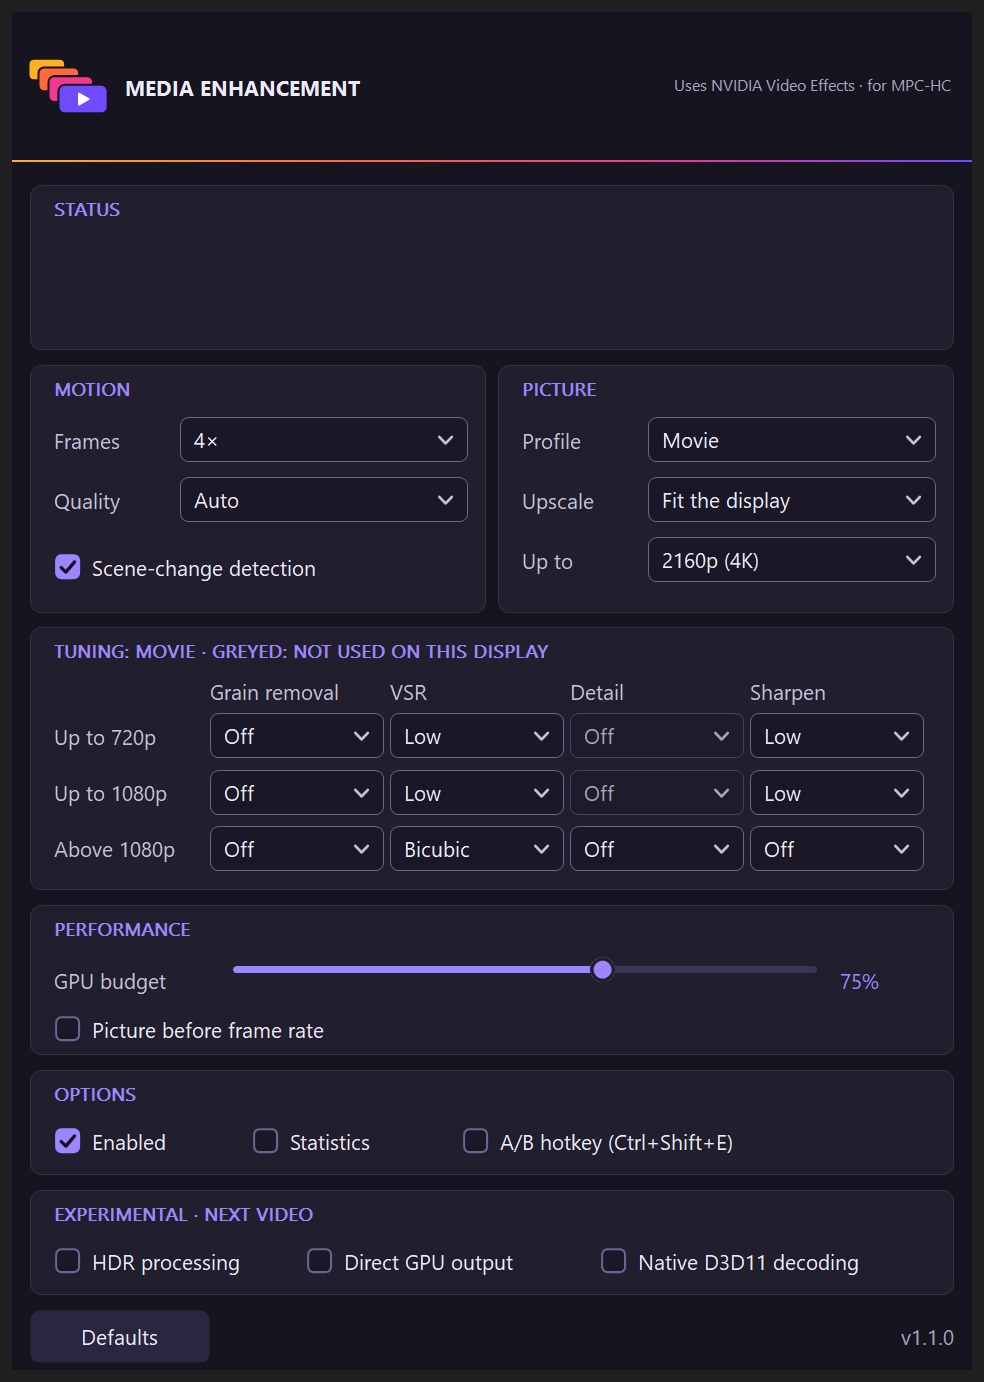
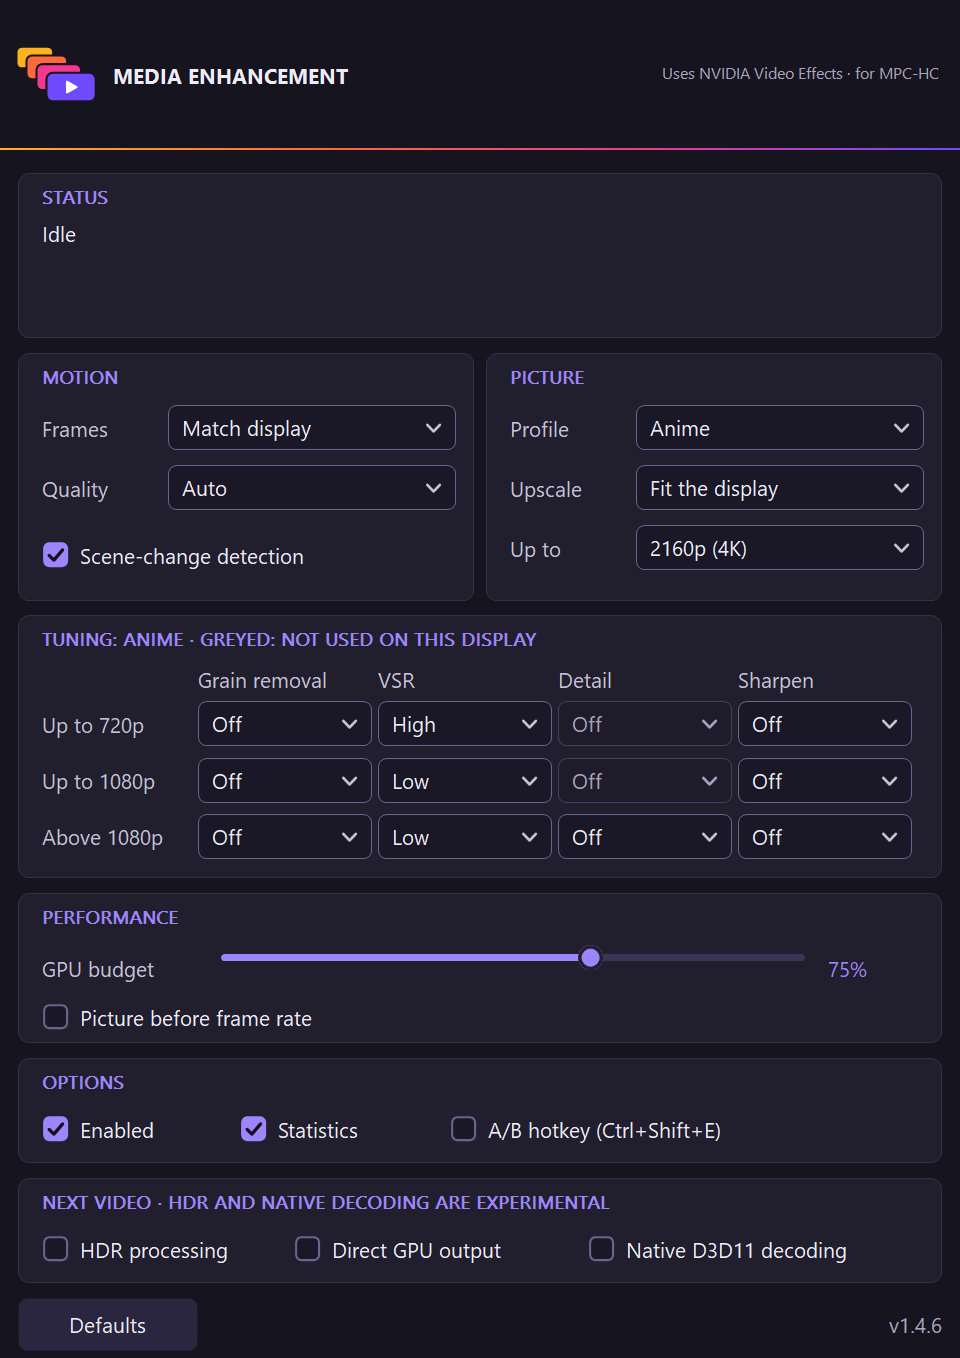
Pictures: the converter's window, the settings panel of 1.4.6
Claude-Session: https://claude.ai/code/session_01Af5hEsQram3B9KX5UcWWQt

diff --git a/README.md b/README.md
@@ -146,6 +146,8 @@ The extension runs only on your computer and does not collect or send any data. 
 
 A preview. It converts a video file to a new file with the same enhancements (upscaling, grain removal, sharpening and frame generation), so the result plays anywhere, also on devices without an NVIDIA card.
 
+![The converter's window while it converts a video to 4K at 60 fps](docs/images/converter.png)
+
 - It needs Media Enhancement installed: the converter uses the NVIDIA runtime that Setup installs. The download contains no NVIDIA files.
 - Unzip `Media-Enhancement-Converter-0.1.0.zip`, keep its files together and start `Media Enhancement Converter.exe`. Add your videos, choose the settings and start. The original files are not changed.
 - `MediaEnhancementConvert.exe` is the same engine for the command line; `README.txt` in the download lists its options.
